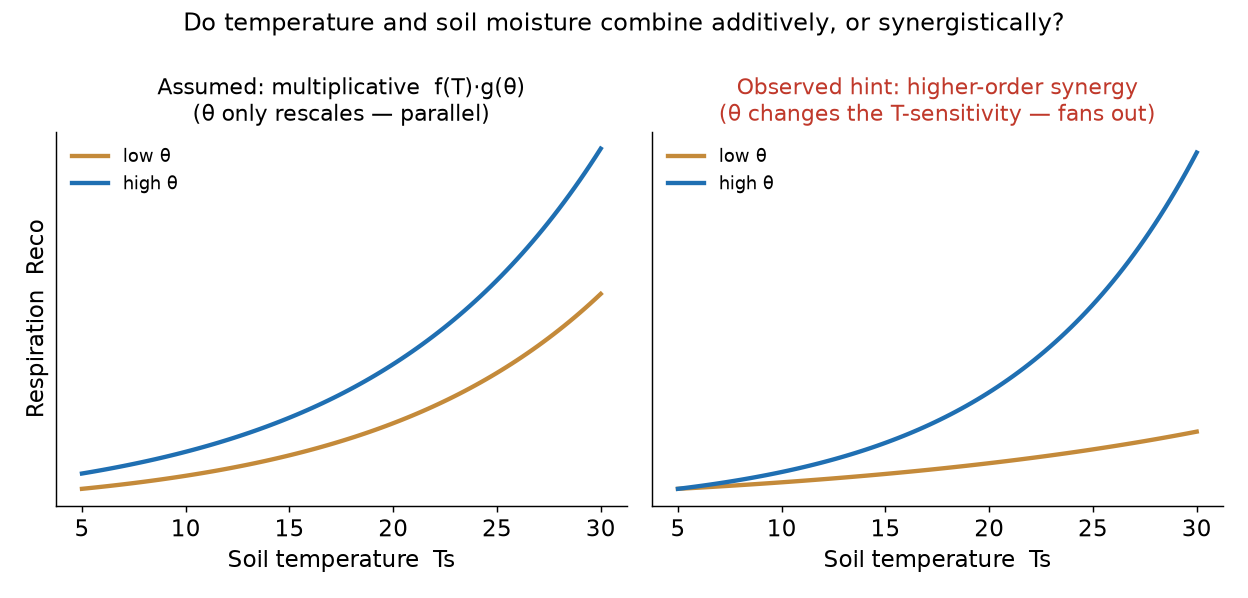
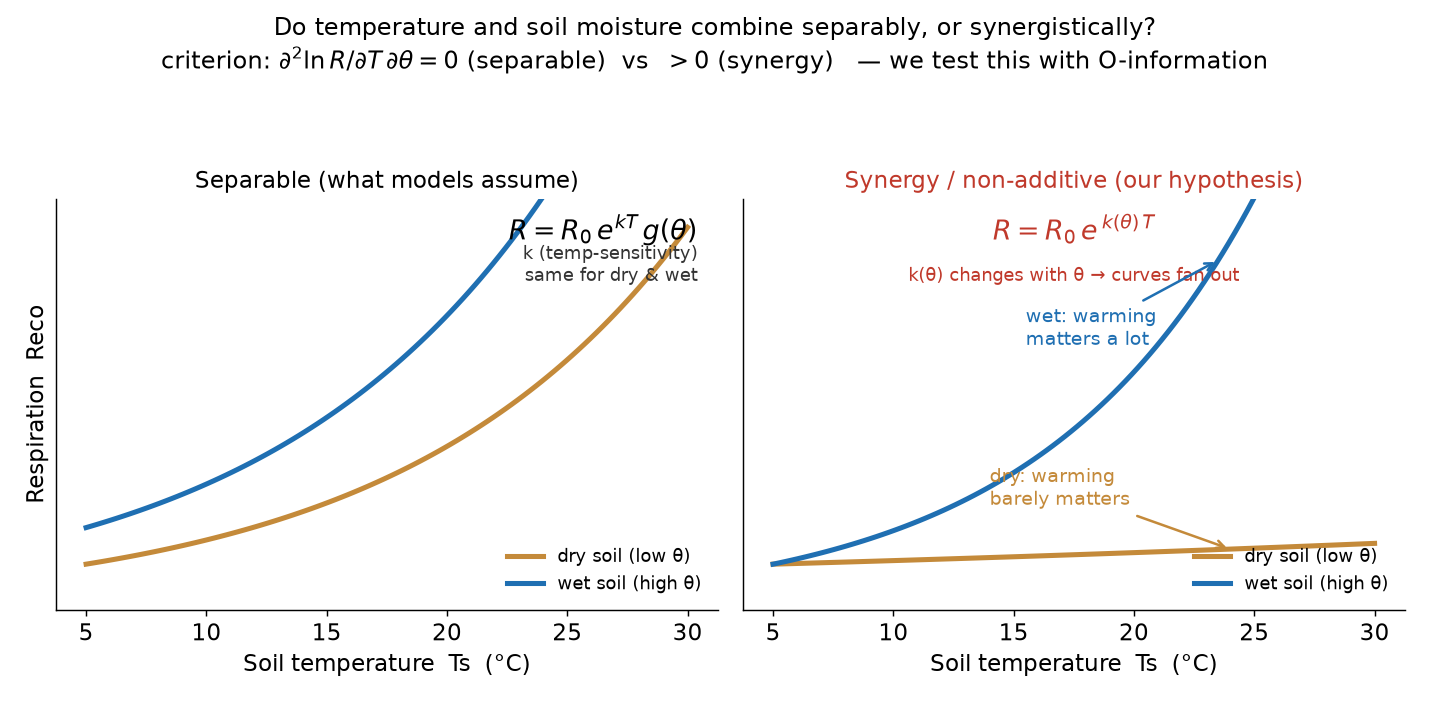
Rewrite fig_q10 schematic with equations + clearer separable-vs-synergy contrast
Redraw so the difference is unmistakable: separable panel shows dry/wet curves
of the same shape (R=R0 e^{kT} g(theta), k independent of theta), synergy panel
shows dry nearly flat vs wet steep (R=R0 e^{k(theta)T}, k depends on theta,
curves fan out), with the mixed-partial criterion d2lnR/dTdtheta = 0 vs >0 in
the title. FIGURE_NOTES gains the equations, the mechanism (moisture gating the
apparent Q10), and the honest note that the functional cross-term and the
information-theoretic synergy correspond conceptually but are not identical
(information theory is the more general detector).

Claude-Session: https://claude.ai/code/session_01TzhwTtoX4vrtgG68YR6oek

diff --git a/scripts/make_slides_figs.py b/scripts/make_slides_figs.py
@@ -416,24 +416,46 @@ def fig_concept_network():
 
 
 def fig_q10_schematic():
-    """§1 背景: 呼吸の 乗法(加法的) vs 高次相乗 の模式（T感度がθで変わるか）。"""
+    """§1 背景: 呼吸の 分離型(乗法) vs 相乗型(非加法) を、式つき・違いを強調して図示。"""
     T = np.linspace(5, 30, 100)
-    fig, (a1, a2) = plt.subplots(1, 2, figsize=(9.6, 4.6), sharey=True)
-    # 乗法 f(T)*g(θ): θが上がると一様にスケール（T感度の"形"は不変＝平行）
-    for g, lbl, c in [(0.6, "low θ", "#c48a3a"), (1.0, "high θ", "#1f6fb2")]:
-        a1.plot(T, g*np.exp(0.09*(T-5)), color=c, lw=2.4, label=lbl)
-    a1.set_title("Assumed: multiplicative  f(T)·g(θ)\n(θ only rescales — parallel)", fontsize=12)
-    # 相乗: θが高いほどT感度そのものが強まる（扇形に開く＝非加法）
-    for g, lbl, c in [(0.05, "low θ", "#c48a3a"), (0.11, "high θ", "#1f6fb2")]:
-        a2.plot(T, 0.6*np.exp(g*(T-5)), color=c, lw=2.4, label=lbl)
-    a2.set_title("Observed hint: higher-order synergy\n(θ changes the T-sensitivity — fans out)",
-                 fontsize=12, color=RED)
+    DRY, WET = "#c48a3a", "#1f6fb2"
+    fig, (a1, a2) = plt.subplots(1, 2, figsize=(11.0, 5.4), sharey=True)
+
+    # 左: 分離型 R=R0 e^{kT} g(θ) — 同じ傾き k、θ は倍率だけ（高θ = 低θ ×1.8, 相似）
+    lowL = np.exp(0.085*(T-5))
+    a1.plot(T, 1.0*lowL, color=DRY, lw=2.8, label="dry soil (low θ)")
+    a1.plot(T, 1.8*lowL, color=WET, lw=2.8, label="wet soil (high θ)")
+    a1.set_title("Separable (what models assume)", fontsize=13)
+    a1.text(0.97, 0.90, r"$R = R_0\,e^{kT}\,g(\theta)$", transform=a1.transAxes,
+            ha="right", fontsize=15)
+    a1.text(0.97, 0.80, "k (temp-sensitivity)\nsame for dry & wet",
+            transform=a1.transAxes, ha="right", fontsize=10, color="#333")
+
+    # 右: 相乗型 R=R0 e^{k(θ)T} — 傾き k(θ) が θ で変わる。乾は ほぼ平ら、湿は急上昇
+    a2.plot(T, np.exp(0.015*(T-5)), color=DRY, lw=2.8, label="dry soil (low θ)")
+    a2.plot(T, np.exp(0.11*(T-5)),  color=WET, lw=2.8, label="wet soil (high θ)")
+    a2.set_title("Synergy / non-additive (our hypothesis)", fontsize=13, color=RED)
+    a2.text(0.5, 0.90, r"$R = R_0\,e^{\,k(\theta)\,T}$", transform=a2.transAxes,
+            ha="center", fontsize=15, color=RED)
+    a2.text(0.5, 0.80, "k(θ) changes with θ → curves fan out",
+            transform=a2.transAxes, ha="center", fontsize=10, color=RED)
+    a2.annotate("dry: warming\nbarely matters", xy=(24, np.exp(0.015*19)),
+                xytext=(14, 2.3), fontsize=10.5, color=DRY,
+                arrowprops=dict(arrowstyle="->", color=DRY, lw=1.4))
+    a2.annotate("wet: warming\nmatters a lot", xy=(23.5, np.exp(0.11*18.5)),
+                xytext=(15.5, 5.8), fontsize=10.5, color=WET,
+                arrowprops=dict(arrowstyle="->", color=WET, lw=1.4))
+
     for a in (a1, a2):
-        a.set_xlabel("Soil temperature  Ts"); a.legend(frameon=False, fontsize=10)
-        a.set_yticks([])
+        a.set_xlabel("Soil temperature  Ts  (°C)")
+        a.legend(frameon=False, fontsize=10, loc="lower right")
+        a.set_yticks([]); a.set_ylim(0, 9)
     a1.set_ylabel("Respiration  Reco")
-    fig.suptitle("Do temperature and soil moisture combine additively, or synergistically?",
+    fig.suptitle("Do temperature and soil moisture combine separably, or synergistically?\n"
+                 r"criterion: $\partial^2\ln R/\partial T\,\partial\theta = 0$ (separable)  vs  "
+                 r"$>0$ (synergy)   — we test this with O-information",
                  fontsize=13.5)
+    fig.tight_layout(rect=(0, 0, 1, 0.92))
     fig.savefig(OUT/"fig_q10_schematic.png"); plt.close(fig)
 
 

diff --git a/japanflux_pn/FIGURE_NOTES.md b/japanflux_pn/FIGURE_NOTES.md
@@ -30,12 +30,22 @@
   実データは §4 の図（fig1–7）。
 
 ## fig_q10_schematic.png　[模式図・データではない]
-- **主張（背景）**: 呼吸 Reco の温度応答が土壌水分でどう変わるか。**乗法 f(T)·g(θ)（θ は一様スケール）**か、
-  **高次相乗（θ が T 感度そのものを変え扇形に開く＝非加法）**か、という**モデル関数形の問い**。
+- **主張（背景）**: 呼吸 Reco の温度応答が土壌水分でどう組み合わさるか、という**モデル関数形の問い**。
+  - **分離型（既存モデルの仮定）**: R = R₀·e^{kT}·g(θ)。log をとると kT と ln g(θ) が加法的に分離＝
+    **温度感度 k は θ に依存しない**（θ は一律スケール、曲線は相似）。
+  - **相乗型（本研究の仮説）**: R = R₀·e^{k(θ)T}。**温度感度 k(θ) が θ で変わる**（乾＝ほぼ平ら、
+    湿＝急上昇、扇形）。回帰なら交差項 β_Tθ(T·θ)≠0 に対応。
+  - **厳密な判定基準**: 混合2階偏微分 ∂²lnR/∂T∂θ ＝ 0（分離）／ >0（相乗）。
 - **データ/手法**: **無し（概念図）**。左右の曲線は説明用の指数関数で、観測値ではない。
-- **つながり**: 「既存モデルは乗法を仮定するが、水分依存は二次関数の方が合うという報告もある
-  （文献 [6] 系）。その相互作用の"形"を情報理論で検証する」＝§2 の貢献へ橋渡し。
+- **機構（なぜ相乗が起こりうるか）**: 乾燥時は基質拡散・微生物機能が水で律速され、暖めても呼吸が
+  増えない → 見かけの Q10（温度感度）が水分で変わる（DAMM: Davidson 2012 の帰結、⚠要確認）。
+- **情報理論との対応（正直に）**: 「交差項 β_Tθ≠0」と「情報理論の synergy（相互作用情報<0）」は
+  **概念的対応**だが完全同値ではない。情報量は任意の非線形・非単調な相互作用も拾う**より一般的な検出**。
+  発表では「相乗の**一般化された**検出」と言うのが正確。
+- **つながり**: この問い（分離 vs 相乗）を情報理論で検証するのが §2 の貢献。結果は fig5/fig6（水田で
+  相乗が消える＝湛水で θ が固定され k(θ) の変動が起こせない）。
 - **想定質問**: 「右のカーブは観測?」→ **「模式です。実際に相乗があるかは O-information で検証（fig5/fig6）」**。
+  「相乗の式は?」→ R=R₀·e^{k(θ)T}、判定は ∂²lnR/∂T∂θ>0（交差項）。
 
 ## fig_pipeline.png　[模式図]
 - **主張（方法）**: データ→前処理（5 日アノマリ・listwise）→情報理論＋因果（TE・O-info・PCMCI）→
